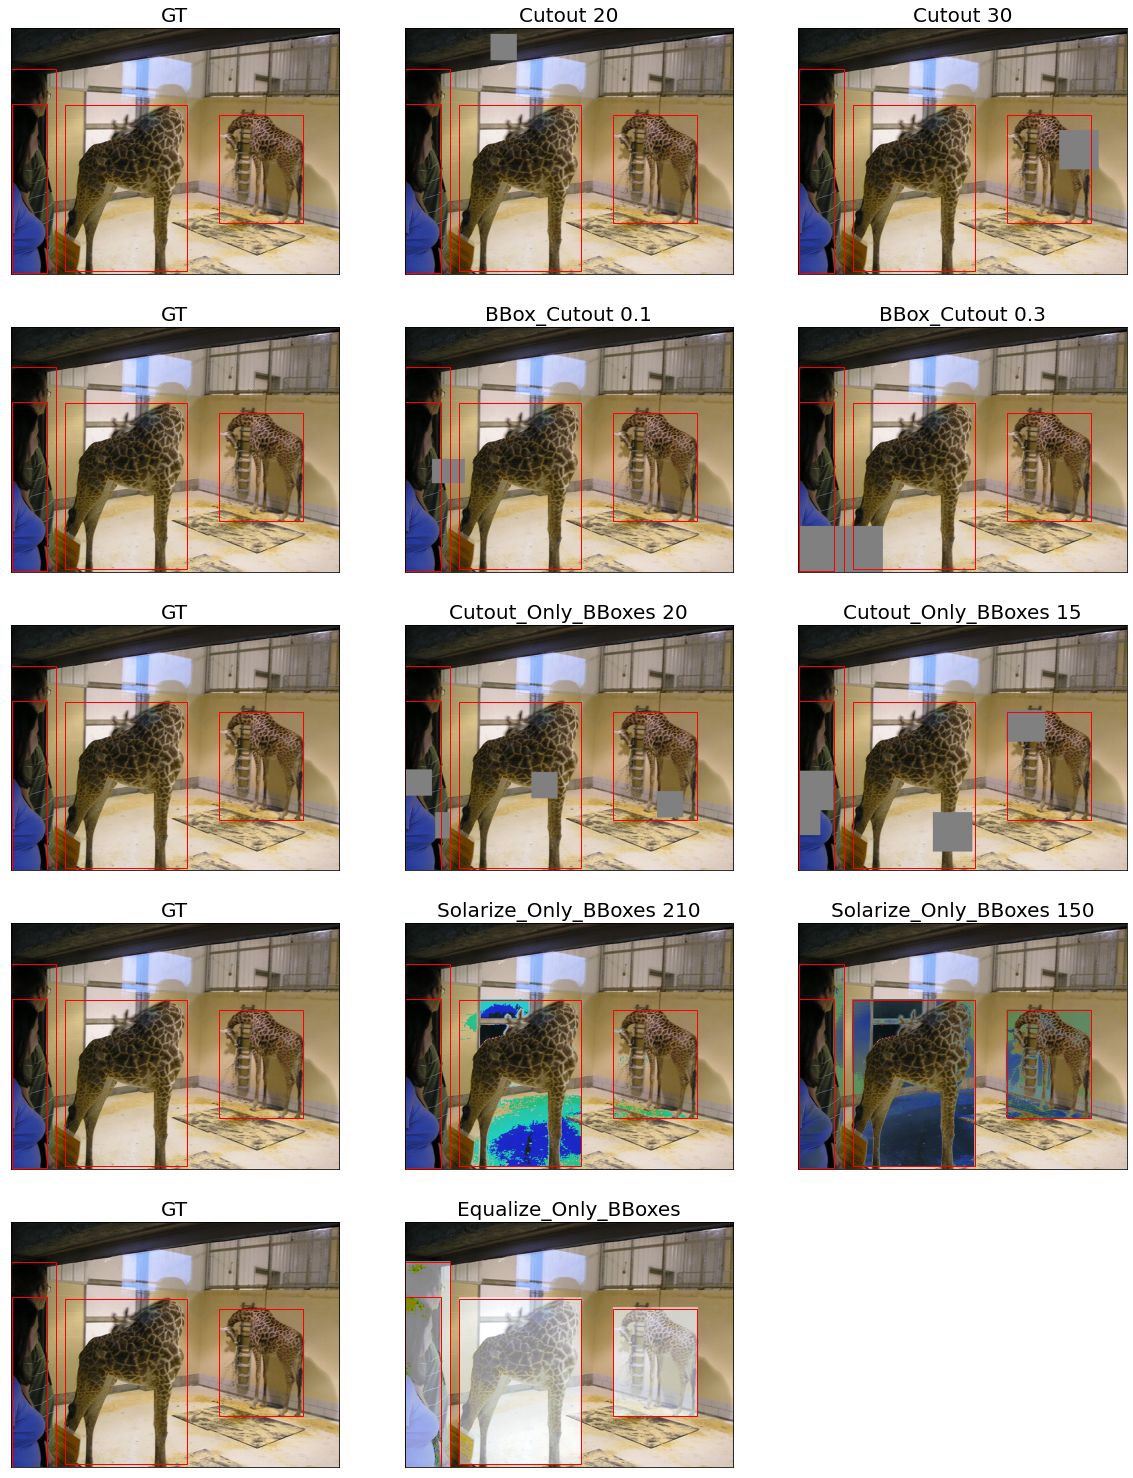
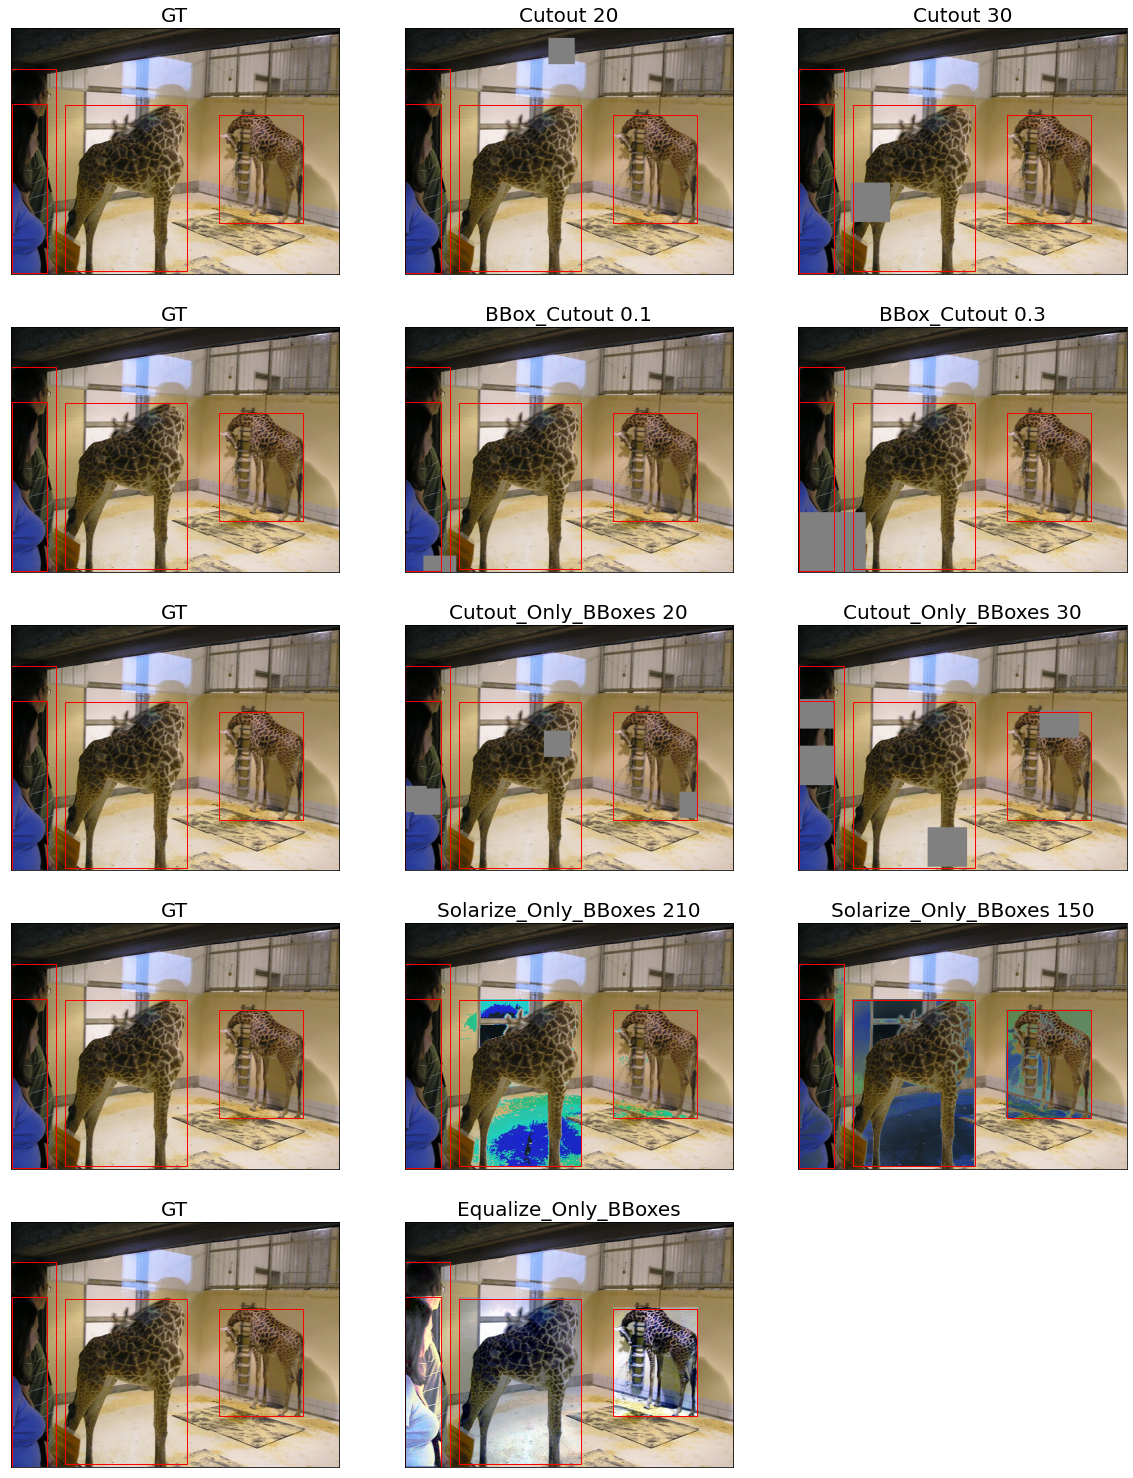
Update README.md with details of range consideration of color

diff --git a/README.md b/README.md
@@ -18,12 +18,20 @@ Docker Image
 - Visualize - Bounding Box Geometric Augmentation.ipynb : experiments of bounding box geometric augmentation
 - Visualize - Color Augmentation.ipynb : experiments of color augmentation
 - Visualize - Geometric Augmentation.ipynb : experiments of geometric augmentation
+- Visualize - Magnitude Check.ipynb : experiments for checking Magnitude is right
 - Visualize - Other Augmentation.ipynb : experiments of left augmentation
 - Visualize - Policy.ipynb : experiments of policy
 - Details
   * range are different so just followed the official code not the paper
+  * some of the range are fixed cause of mismatch with magnitude
+    * range 0.1 ~ 1.9 for color operation (Color, Contrast, Brightness, Sharpness)
+    * but 1 is the default (original image)
+    * so in this repo, I code like below
+      * instead using 0.1 ~ 1.9, use 0 ~ 0.9 with random change (0.5 probability)
+      * e.g.) 0.9 was chosen randomly minus the value (0.9 or -0.9) and add with 1 (1.9 or 0.1)
   * do not use numpy nor opencv for speed and preventing version crashes
   * similar design pattern following torchvision transforms code
+  * some of the codes can be improved but not considered in this repo (e.g. TranslateX_Only_BBoxes - translate considering bbox size not fixed pixel)
 
 
 ## 2. Results
@@ -43,9 +51,13 @@ Docker Image
 ![Other Augmentation](./Figures/etc_0.png)
 ![Other Augmentation](./Figures/etc_1.png)
 
-#### 2.4. Policy
+#### 2.5. Policy
 ![Policy](./Figures/policy_0.png)
 ![Policy](./Figures/policy_1.png)
+
+#### 2.6. Magnitude
+![Magnitude](./Figures/mag_0.png)
+![Magnitude](./Figures/mag_1.png)
 
 
 ## 3. Reference
